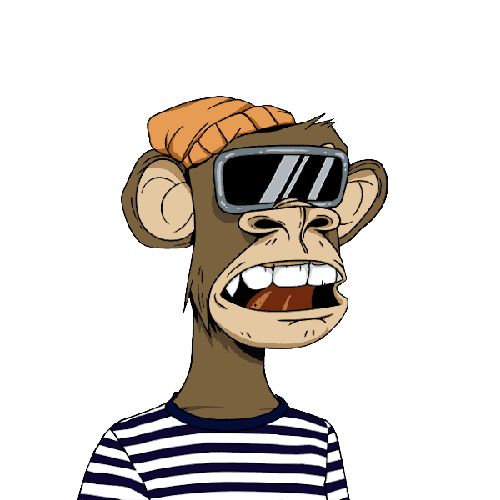
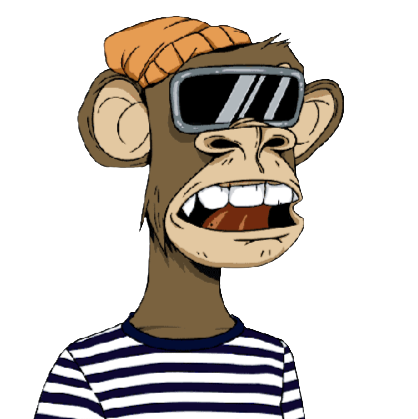
hover animation

diff --git a/lib/ui/views/home/desktop_view/sections/intro_section.dart b/lib/ui/views/home/desktop_view/sections/intro_section.dart
@@ -1,14 +1,42 @@
 import 'package:flutter/material.dart';
+import 'package:flutter_animate/flutter_animate.dart';
+import 'package:hovering/hovering.dart';
+import 'package:shimmer/shimmer.dart';
 
 import '../../../../common/app_colors.dart';
 import '../../../../widgets/ui_components/circular_frame.dart';
+import '../../../../widgets/ui_components/hover_shimmer.dart';
 
-class IntroSection extends StatelessWidget {
+class IntroSection extends StatefulWidget {
   const IntroSection({super.key});
+
+  @override
+  State<IntroSection> createState() => _IntroSectionState();
+}
+
+class _IntroSectionState extends State<IntroSection>
+    with TickerProviderStateMixin {
+  late AnimationController _controller;
+
+  @override
+  void initState() {
+    super.initState();
+    _controller = AnimationController(
+      duration: const Duration(seconds: 1),
+      vsync: this,
+    )..repeat(); // Loop the animation.
+  }
+
+  @override
+  void dispose() {
+    _controller.dispose();
+    super.dispose();
+  }
 
   @override
   Widget build(BuildContext context) {
     Size size = MediaQuery.of(context).size;
+
     return Row(
       mainAxisAlignment: MainAxisAlignment.start,
       children: [
@@ -148,19 +176,26 @@ class IntroSection extends StatelessWidget {
         ),
         Flexible(
             child: SizedBox(
-          height: size.width * 0.3,
+          height: size.width * 0.33,
           width: double.maxFinite,
           child: Stack(
             children: [
               Positioned(
                 top: size.width * 0.035,
                 left: size.width * 0.06,
-                child: CircularFrame(
-                  offset: true,
-                  shadows: true,
-                  backgroundColor: const Color.fromARGB(255, 43, 43, 43),
-                  image: 'assets/images/avatar.png',
-                  radius: size.width * 0.12,
+                child: HoverShimmer(
+                  child: Padding(
+                    padding: const EdgeInsets.fromLTRB(4, 3, 0, 0),
+                    child: CircularFrame(
+                      offset: true,
+                      shadows: true,
+                      backgroundColor: const Color.fromARGB(255, 43, 43, 43),
+                      image: 'assets/images/avatar.png',
+                      radius: size.width * 0.12,
+                    ),
+                  ),
+                  shimmerRadius: size.width * 0.12,
+                  animatedPadding: true,
                 ),
               ),
               Positioned(

diff --git a/lib/ui/widgets/ui_components/hover_shimmer.dart b/lib/ui/widgets/ui_components/hover_shimmer.dart
@@ -1,0 +1,47 @@
+import 'package:flutter/material.dart';
+import 'package:hovering/hovering.dart';
+import 'package:shimmer/shimmer.dart';
+
+class HoverShimmer extends StatelessWidget {
+  const HoverShimmer(
+      {super.key,
+      required this.child,
+      required this.shimmerRadius,
+      required this.animatedPadding});
+  final Widget child;
+  final double shimmerRadius;
+  final bool animatedPadding;
+
+  @override
+  Widget build(BuildContext context) {
+    return HoverCrossFadeWidget(
+      duration: const Duration(seconds: 1),
+      reverseDuration: const Duration(milliseconds: 900),
+      firstCurve: Curves.easeInOut,
+      secondCurve: Curves.decelerate,
+      firstChild: child,
+      secondChild: AnimatedContainer(
+        duration: const Duration(milliseconds: 10),
+        curve: Curves.easeInOut,
+        child: Stack(
+          children: [
+            child,
+            Padding(
+              padding: animatedPadding
+                  ? const EdgeInsets.fromLTRB(4, 3, 0, 0)
+                  : const EdgeInsets.all(0),
+              child: Shimmer.fromColors(
+                period: const Duration(seconds: 1),
+                child: CircleAvatar(
+                  radius: shimmerRadius,
+                ),
+                baseColor: Colors.transparent,
+                highlightColor: Colors.white.withOpacity(0.3),
+              ),
+            ),
+          ],
+        ),
+      ),
+    );
+  }
+}

diff --git a/lib/ui/widgets/ui_components/circular_frame.dart b/lib/ui/widgets/ui_components/circular_frame.dart
@@ -1,4 +1,5 @@
 import 'package:flutter/material.dart';
+import 'package:hovering/hovering.dart';
 
 class CircularFrame extends StatelessWidget {
   const CircularFrame(
@@ -34,7 +35,9 @@ class CircularFrame extends StatelessWidget {
         backgroundColor: backgroundColor,
         radius: radius,
         child: Padding(
-          padding: const EdgeInsets.all(4.0),
+          padding: (image == 'assets/images/avatar.png')
+              ? const EdgeInsets.fromLTRB(40, 4, 20, 10)
+              : const EdgeInsets.all(4.0),
           child: Container(
             child: (image != null)
                 ? Image.asset(

diff --git a/lib/ui/widgets/ui_components/glass_container.dart b/lib/ui/widgets/ui_components/glass_container.dart
@@ -50,7 +50,7 @@ class GlassMorphedContainer extends StatelessWidget {
               ),
             ),
             SizedBox(
-              height: size.width * 0.006,
+              height: size.width * 0.0052,
             ),
             Align(
               alignment: Alignment.centerLeft,
